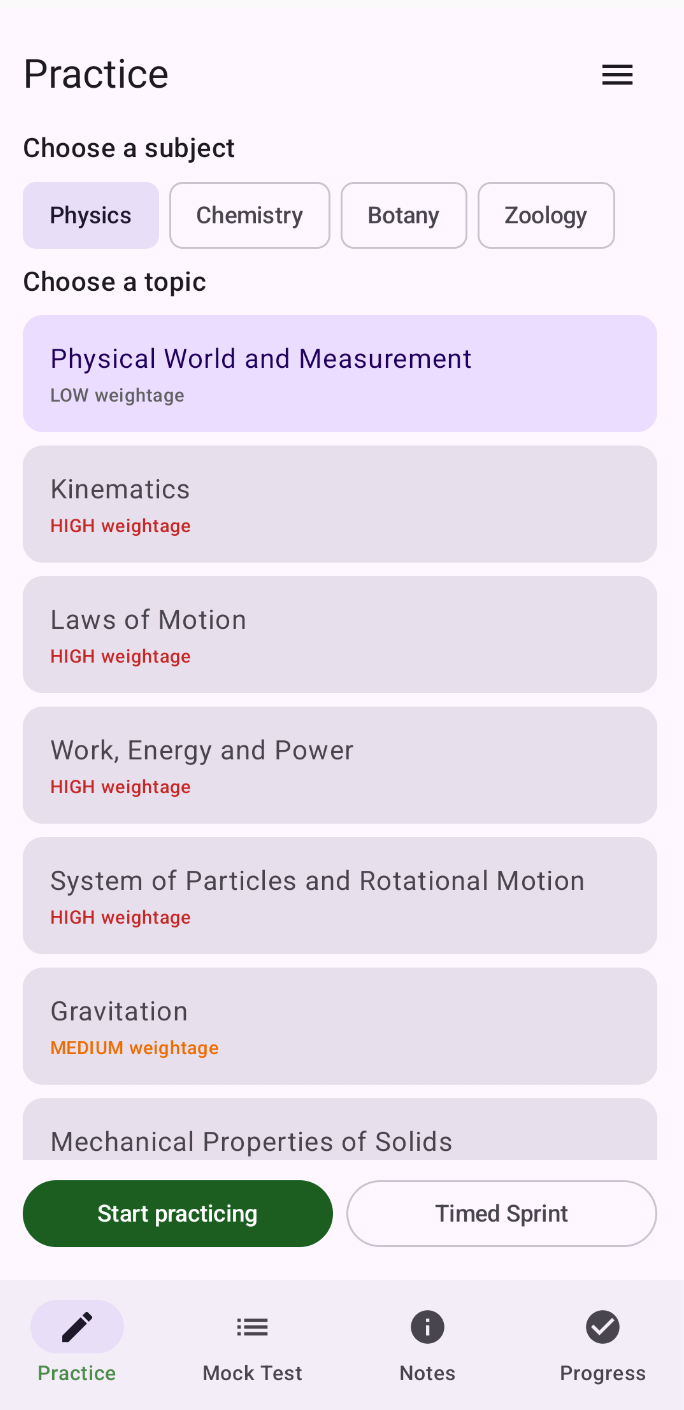
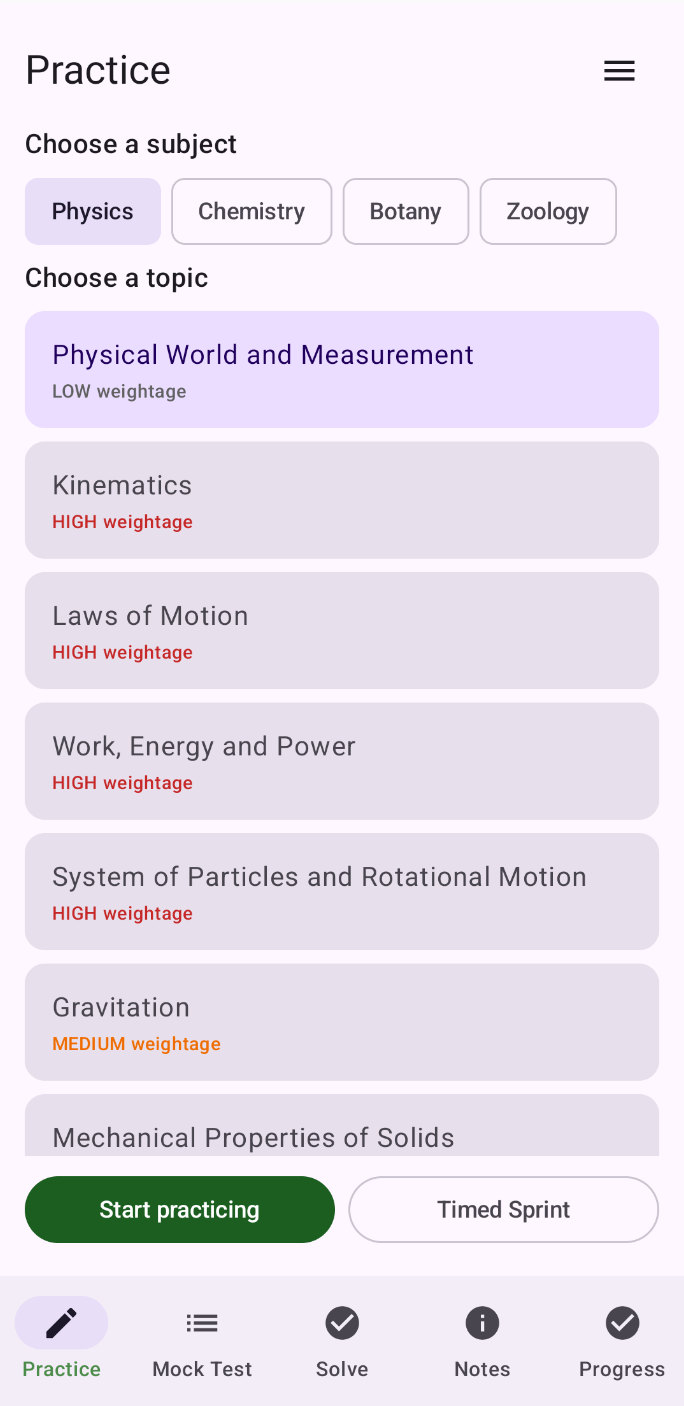
Document photo solver screenshots

diff --git a/README.md b/README.md
@@ -3,11 +3,11 @@
 > An AI-powered Android application for **NEET (India's medical entrance exam)** that generates unlimited syllabus-aligned practice questions, mock tests, notes, and flashcards using OpenAI.
 
 <p align="center">
-  <!-- Add screenshots here -->
-  <img src="docs/images/practice.png" width="22%">
-  <img src="docs/images/mock-test.png" width="22%">
-  <img src="docs/images/notes.png" width="22%">
-  <img src="docs/images/progress.png" width="22%">
+  <img src="docs/images/practice.png" width="18%">
+  <img src="docs/images/mock-test.png" width="18%">
+  <img src="docs/images/photo-solver.png" width="18%">
+  <img src="docs/images/notes.png" width="18%">
+  <img src="docs/images/progress.png" width="18%">
 </p>
 
 ## Highlights
@@ -18,6 +18,7 @@
 - 🎯 Smart Practice targeting weak topics
 - ⏱ Full-length NEET-style mock tests
 - 📝 AI-generated notes and flashcards
+- 📷 Photo question solver with AI-generated worked solutions
 - 📄 Export notes and completed mock tests as PDFs
 - 📊 Progress tracking, mistake review, and syllabus coverage heatmaps
 - 🔐 Optional cloud sync across devices
@@ -84,6 +85,13 @@ Automatically builds a focused practice session from your weakest topics using p
 - Flashcards
 - Server-side caching
 - PDF export
+
+### Photo Solver
+
+Take a clear photo of a NEET question or choose one from the gallery. The app reads the
+question, transcribes it, gives the final answer, and provides a concise step-by-step
+solution with the key concept. If the image is unclear or incomplete, it explains what
+needs to be retaken rather than guessing.
 
 ### Progress
 
